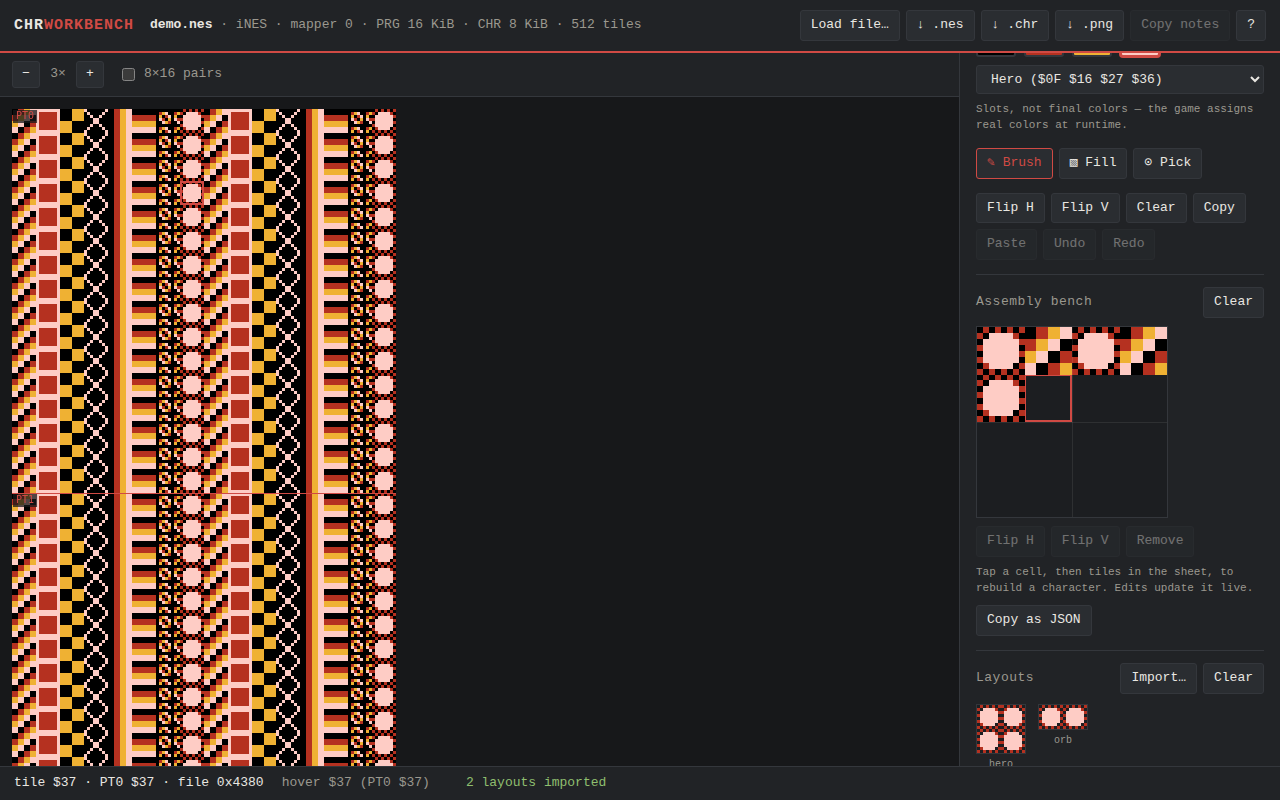
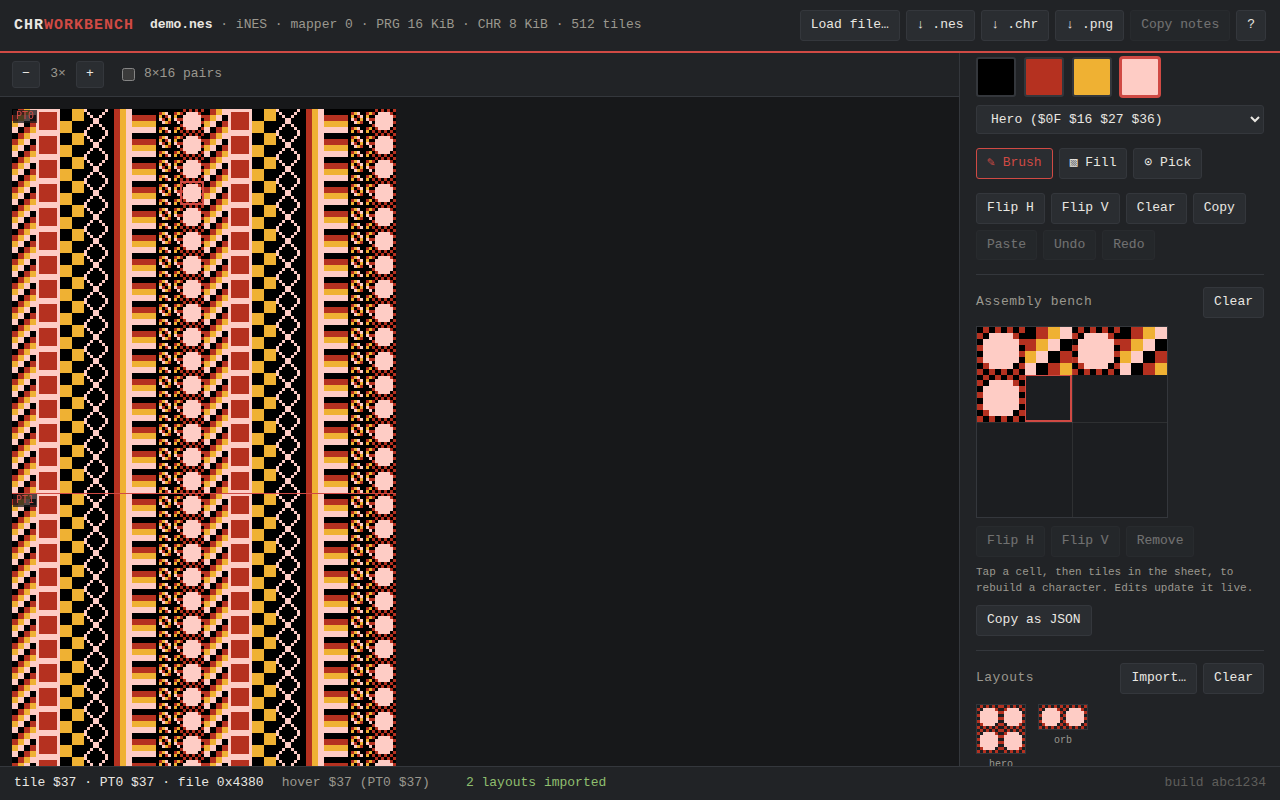
Self-healing freshness check + visible build stamp to end stale-cache lockouts
GitHub Pages can't set cache headers and iOS Safari has no true hard
refresh, so a weak connection can strand a device on a stale or partial
copy of the page that a reload won't replace. The build now stamps a
version id into the page and writes a matching version.json; on load the
page fetches version.json uncached and, if it is running an older build,
reloads once against a ?v=<id> URL (guaranteed CDN cache miss). The heal
is capped at one attempt per navigation via the URL marker — no storage,
and provably loop-free even under the exact propagation skew we're
fighting (fresh version.json, still-stale HTML): worst case is running
one deploy behind, never a spin.

The footer shows the running build id, so a misbehaving page can be
identified at a glance instead of guessed at. Also adds a
Cache-Control meta hint for future loads.

Verified with a browser harness: fresh load does not reload and shows
the stamp; a simulated stale page self-heals exactly once then settles
with a clean URL; no reload loop even when version.json keeps reporting
stale. All existing suites pass against a static host that mirrors
GitHub Pages (serves version.json directly rather than SPA-falling-back).

Claude-Session: https://claude.ai/code/session_01HP2SbDyiovyKwMjda2n3MF

Changed region(s): [[0.75, 0.0625, 0.9688, 0.1562], [0.9062, 0.9688, 0.9688, 1.0], [0.7812, 0.2812, 0.8125, 0.3125]]

diff --git a/src/main.ts b/src/main.ts
@@ -14,6 +14,43 @@ import { BENCH_COLS, PALETTES, state } from './state';
 
 const $ = <T extends HTMLElement>(sel: string): T => document.querySelector(sel) as T;
 
+/**
+ * Freshness self-check. GitHub Pages can't set cache headers, and iOS
+ * Safari has no true hard-refresh, so a device can get stuck on a stale
+ * (or partially downloaded) copy of the page. On load we fetch the
+ * current build id — bypassing every cache — and if the running page is
+ * out of date, reload once against a build-keyed URL so the CDN must
+ * serve fresh bytes. The URL guard makes a loop impossible and uses no
+ * storage. Failures are silent: staleness recovery must never itself
+ * break the page.
+ */
+async function checkFreshness(): Promise<void> {
+  try {
+    const url = new URL(location.href);
+    // At most one heal per navigation: if we already carry the marker,
+    // strip it and stop. This holds even if the CDN serves a fresh
+    // version.json but a still-stale page (propagation skew) — the worst
+    // case is running one deploy behind, never a reload loop.
+    if (url.searchParams.has('v')) {
+      url.searchParams.delete('v');
+      history.replaceState(null, '', url.pathname + url.search + url.hash);
+      return;
+    }
+    const res = await fetch(`${import.meta.env.BASE_URL}version.json?ts=${Date.now()}`, {
+      cache: 'no-store',
+    });
+    if (!res.ok) return;
+    const { id } = (await res.json()) as { id?: string };
+    if (id && id !== __BUILD_ID__) {
+      url.searchParams.set('v', id); // unique URL → guaranteed cache miss
+      location.replace(url.toString());
+    }
+  } catch {
+    /* offline or blocked — keep running the page we have */
+  }
+}
+void checkFreshness();
+
 const fileInput = $<HTMLInputElement>('#file-input');
 const fileMeta = $('#file-meta');
 const btnDlNes = $<HTMLButtonElement>('#btn-dl-nes');
@@ -634,6 +671,8 @@ function render(): void {
   bench.render();
   gallery.render();
 }
+
+$('#build-stamp').textContent = `build ${__BUILD_ID__}`;
 
 state.subscribe(render);
 render();

diff --git a/vite.config.ts b/vite.config.ts
@@ -1,12 +1,32 @@
-import { defineConfig } from 'vitest/config';
+import { writeFileSync } from 'node:fs';
+import { defineConfig, type Plugin } from 'vitest/config';
 import { viteSingleFile } from 'vite-plugin-singlefile';
+
+// A build id that changes every deploy: the CI commit sha, else a
+// timestamp. Baked into the page and written to version.json so a loaded
+// page can tell whether it is the current deploy.
+const BUILD_ID =
+  (process.env.GITHUB_SHA || '').slice(0, 7) ||
+  new Date().toISOString().slice(0, 16).replace(/[-:T]/g, '');
+
+// Emit dist/version.json alongside the inlined single-file page. It is
+// fetched (never cached) at runtime for the freshness self-check.
+function versionFile(): Plugin {
+  return {
+    name: 'version-file',
+    closeBundle() {
+      writeFileSync('dist/version.json', JSON.stringify({ id: BUILD_ID }));
+    },
+  };
+}
 
 // Base path matches the GitHub Pages URL: https://<user>.github.io/6502-hacker/
 export default defineConfig({
   base: '/6502-hacker/',
+  define: { __BUILD_ID__: JSON.stringify(BUILD_ID) },
   // Inline all CSS/JS into index.html: a cached copy of the page can never
   // point at deploy-hashed asset files that no longer exist on Pages.
-  plugins: [viteSingleFile()],
+  plugins: [viteSingleFile(), versionFile()],
   build: {
     // Conservative target: native class fields (es2022) require iOS 14.5+,
     // and dead-silent script failure is the cost of guessing wrong.

diff --git a/src/style.css b/src/style.css
@@ -449,6 +449,11 @@ kbd {
   color: var(--accent);
 }
 
+.build-stamp {
+  margin-left: auto;
+  opacity: 0.5;
+}
+
 /* ── Help dialog ────────────────────────────────────────── */
 
 #help-dialog {

diff --git a/src/vite-env.d.ts b/src/vite-env.d.ts
@@ -1,0 +1,4 @@
+/// <reference types="vite/client" />
+
+/** Build id baked in at compile time (see vite.config.ts). */
+declare const __BUILD_ID__: string;

diff --git a/index.html b/index.html
@@ -4,6 +4,7 @@
     <meta charset="UTF-8" />
     <meta name="viewport" content="width=device-width, initial-scale=1.0" />
     <meta name="color-scheme" content="dark" />
+    <meta http-equiv="Cache-Control" content="no-cache, must-revalidate" />
     <title>CHR Workbench — NES tile editor</title>
     <script>
       // Surface any script failure in the status bar instead of leaving the
@@ -165,6 +166,7 @@
         <span id="status-dirty"></span>
         <span id="status-msg" role="status"></span>
         <span id="status-warn" role="alert"></span>
+        <span id="build-stamp" class="build-stamp"></span>
       </footer>
     </div>
 

diff --git a/README.md b/README.md
@@ -112,7 +112,11 @@ fixtures. `src/sheet.ts` and `src/editor.ts` render the two canvases,
 `src/main.ts` wires the UI.
 
 On push to `main`, GitHub Actions runs lint + tests, builds, and deploys to
-GitHub Pages.
+GitHub Pages. Each build stamps a version id into the page and a matching
+`version.json`; on load the page fetches `version.json` uncached and, if it
+is running an older build, reloads once against a version-keyed URL so a
+stale CDN or mobile cache can't leave you on an out-of-date page. The
+current build id shows in the footer.
 
 `.gitignore` excludes `*.nes` and `*.chr` so nobody accidentally commits ROM
 data — bring your own homebrew or public-domain files.